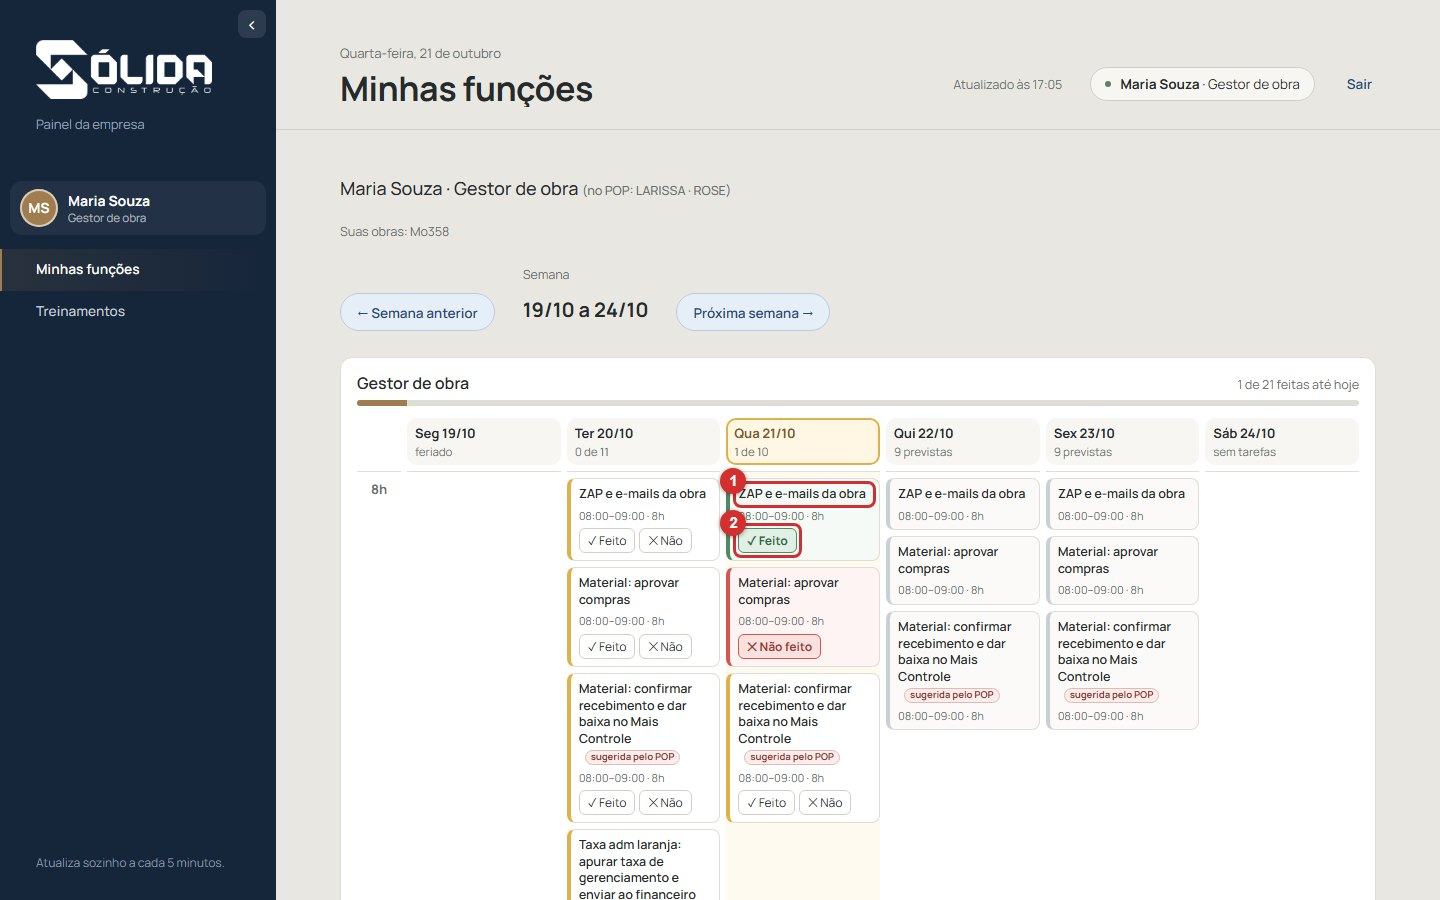
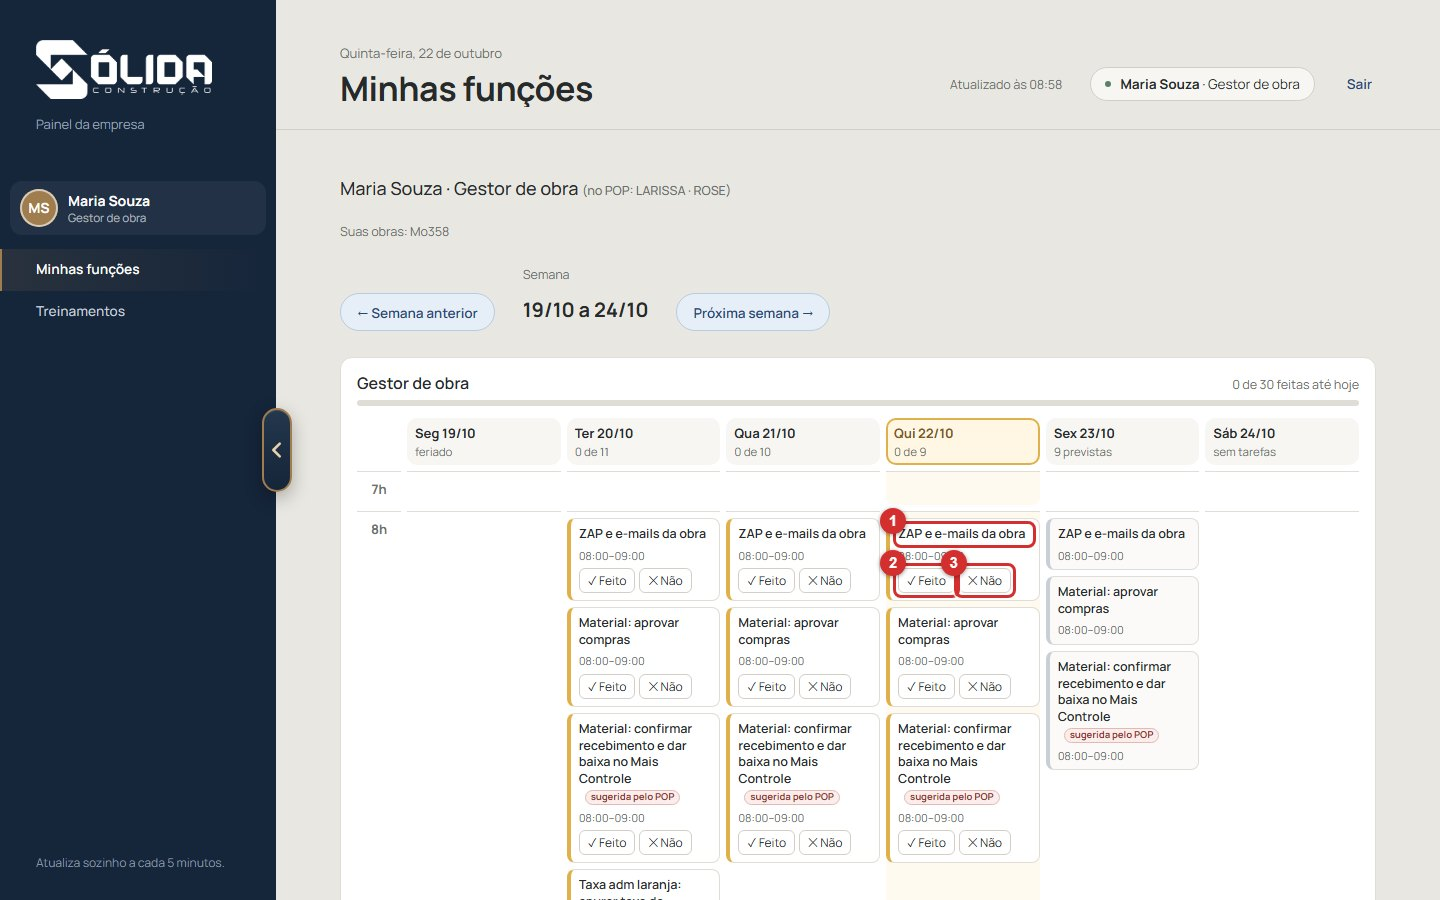
Minhas funcoes: arrastar o cartao dentro do dia (hora cheia ou e meia); horario escolhido vale para todas as semanas e e so da pessoa (tabela horarios_tarefas na nuvem); treinamento com o passo de mover

diff --git a/app/js/telas/meudia.js b/app/js/telas/meudia.js
@@ -7,7 +7,7 @@ import { html, data as fmtData } from '../formato.js';
 import { somarDias, hojeISO, inicioDaSemana } from '../datas.js';
 import { TAREFAS, valeNoDia, descreverDias, naGrade, OBSERVACOES, diaSemana, soMinhasFuncoes } from '../funcoes.js';
 import { sessao, funcaoAtual, idPessoa, obrasDaPessoa } from '../sessao.js';
-import { lerChecks, lerHorarios, moverHorario, primeiroDia } from '../armazenamento.js';
+import { lerChecks, lerHorarios, moverHorario, primeiroDia, lerHorariosFixos, fixarHorario } from '../armazenamento.js';
 import { programacoes } from '../programacao.js';
 import { feriado } from '../feriados.js';
 import { telaSemana } from './produtividade.js';
@@ -98,9 +98,17 @@ function situacao(t, data, estado, hoje, prova, curto) {
 const infoTarefa = (t) => [NOME_AREA[t.area] || t.area, t.processo && t.processo !== '—' ? `POP ${t.processo}` : '', descreverDias(t.dias), t.hora ? `quadro: ${t.hora}` : ''].filter(Boolean).join(' · ');
 
 // Cartão da lista "ficaram sem marcar" (sem horário)
-function caixaTarefa(t, data, estado, hoje, prova, rotuloDia = '') {
+function caixaTarefa(t, data, estado, hoje, prova, rotuloDia = '', opc = {}) {
   const { cls, acoes } = situacao(t, data, estado, hoje, prova, false);
-  const meta = [rotuloDia, t.hora].filter(Boolean).join(' · ');
+  const meta = [rotuloDia, opc.mover ? '' : t.hora].filter(Boolean).join(' · ');
+  // opc.mover: o cartão pode ser arrastado para outro dia ou horário (grade por hora); opc.mudou: já foi movido do horário do quadro
+  if (opc.mover) {
+    return html`<div class="fn-caixa fn-${cls} fn-movivel ${opc.mudou ? 'fn-mudou' : ''}" draggable="true" data-mover="${t.id}|${data}" title="${infoTarefa(t)} — arraste para mudar o dia ou o horário">
+    <div class="fn-nome">${textoTarefa(t)}</div>
+    ${meta || opc.mudou ? html`<div class="fn-meta">${meta}${opc.mudou ? html` <button type="button" class="fn-volta" data-volta="${t.id}|${data}" title="Voltar ao dia e horário do quadro">↺ movida</button>` : ''}</div>` : ''}
+    ${acoes ? html`<div class="fn-acoes">${acoes}</div>` : ''}
+  </div>`;
+  }
   return html`<div class="fn-caixa fn-${cls}" title="${infoTarefa(t)}">
     <div class="fn-nome">${textoTarefa(t)}</div>
     ${meta ? html`<div class="fn-meta">${meta}</div>` : ''}
@@ -168,7 +176,10 @@ function funcoesSemana(ref, CFG) {
 
   if (!tarefas.length) return html`${nav}<p class="vazio">Nenhuma tarefa cadastrada para a sua função.</p>`;
 
-  const horarios = lerHorarios(idPessoa());
+  // horário escolhido pela pessoa: vale para a tarefa em TODOS os dias e semanas, só para ela (não muda sozinho)
+  const fixos = lerHorariosFixos(idPessoa());
+  const horarios = {};
+  for (const d of dias) { horarios[d] = {}; for (const [tid, v] of Object.entries(fixos)) horarios[d][tid] = { ini: v.ini }; }
   const todos = [];
   for (const d of dias) for (const t of doDia(d)) todos.push(efetivo(t, d, horarios, dias));
   const colunas = dias.map((c) => { const l = lados(todos.filter((e) => e.dia === c)); return { c, l, fe: l.filter((e) => feita(e.t, e.d)).length }; });
@@ -186,12 +197,15 @@ function funcoesSemana(ref, CFG) {
     </div>`)}</div>`;
   // Grade por hora (padrão em tela larga): horas na lateral, um dia por coluna. Tarefas do mesmo horário ficam empilhadas na célula
   // (cada uma com o texto inteiro), então nada fica espremido nem cortado e os 6 dias cabem na tela sem rolar para o lado.
-  const horasComTarefa = [...new Set(colunas.flatMap(({ l }) => l.map((e) => Math.floor(e.ini / 60))))].sort((a, b) => a - b);
+  // todas as horas do dia de trabalho (7h às 18h, ou mais se houver tarefa fora disso): assim dá para soltar um cartão em qualquer horário
+  const hs = colunas.flatMap(({ l }) => l.map((e) => Math.floor(e.ini / 60)));
+  const horasComTarefa = Array.from({ length: Math.max(18, ...hs) - Math.min(7, ...hs) + 1 }, (_, i) => Math.min(7, ...hs) + i);
   const vistaHoras = html`<div class="fh-grade">
     <div class="fh-canto"></div>
     ${colunas.map(({ c, l, fe }, i) => html`<div class="fq-cab fh-dia ${c === hoje ? 'hoje' : ''}"><b>${DIA_CURTO[i]} ${c.slice(8, 10)}/${c.slice(5, 7)}</b><small>${feriado(c) ? 'feriado' : l.length ? (c > hoje ? `${l.length} previstas` : `${fe} de ${l.length}`) : 'sem tarefas'}</small></div>`)}
-    ${horasComTarefa.map((h) => html`<div class="fh-hora"><b>${h}h</b></div>${colunas.map(({ c, l }) => html`<div class="fh-cel ${c === hoje ? 'hoje' : ''}">${l.filter((e) => Math.floor(e.ini / 60) === h).sort((a, b) => a.ini - b.ini).map((e) => caixaTarefa(e.t, e.d, estadoDe(e.t, e.d), hoje, null, dispo(e)))}</div>`)}`)}
-  </div>`;
+    ${horasComTarefa.map((h) => html`<div class="fh-hora"><b>${h}h</b></div>${colunas.map(({ c, l }) => html`<div class="fh-cel ${c === hoje ? 'hoje' : ''}" data-cel-dia="${c}" data-cel-hora="${h}">${l.filter((e) => Math.floor(e.ini / 60) === h).sort((a, b) => a.ini - b.ini).map((e) => caixaTarefa(e.t, e.d, estadoDe(e.t, e.d), hoje, null, dispo(e), { mover: true, mudou: e.mudou }))}</div>`)}`)}
+  </div>
+  <p class="legenda-semana">Quer mudar o horário de uma tarefa? Segure o cartão e arraste para outra hora do mesmo dia (solte na metade de cima da hora para hora cheia, ou na de baixo para "e meia"). O novo horário vale para todas as semanas e é só seu. "↺ movida" volta ao horário do quadro.</p>`;
   const botoesVista = html`<div class="fl-vista" role="group" aria-label="Como ver as tarefas"><span class="pequeno">Ver:</span>
     <button type="button" class="botao ${vista === 'lista' ? 'on' : ''}" data-vista-fn="lista">Lista por dia</button>
     <button type="button" class="botao ${vista === 'quadro' ? 'on' : ''}" data-vista-fn="quadro">Por horário</button></div>`;
@@ -230,6 +244,34 @@ function funcoesSemana(ref, CFG) {
 
 // Ligações do quadro (uma vez só, no início): arrastar, puxar a borda, abrir e ajustar a janelinha.
 export function instalarQuadro(aoMudar) {
+  // Mover tarefas dentro do próprio dia (grade por hora): segure o cartão, arraste e solte na hora que quiser (metade de cima da célula = hora cheia,
+  // metade de baixo = e meia). O horário vale para a tarefa em todas as semanas e fica só para esta pessoa. "↺ movida" volta ao horário do quadro.
+  let movendo = null;
+  const celula = (e) => (e.target.closest ? e.target.closest('.fh-cel') : null);
+  document.addEventListener('dragstart', (e) => {
+    const c = e.target.closest && e.target.closest('[data-mover]'); if (!c) return;
+    const [id, d] = c.dataset.mover.split('|'); movendo = { id, d, card: c };
+    e.dataTransfer.setData('text/plain', c.dataset.mover); e.dataTransfer.effectAllowed = 'move'; c.classList.add('arrastando');
+  });
+  document.addEventListener('dragend', () => { if (movendo) movendo.card.classList.remove('arrastando'); movendo = null; document.querySelectorAll('.fh-cel.alvo').forEach((x) => x.classList.remove('alvo')); });
+  document.addEventListener('dragover', (e) => {
+    const cel = celula(e); if (!cel || !movendo || cel.dataset.celDia !== movendo.d) return;   // só dentro do próprio dia
+    e.preventDefault(); e.dataTransfer.dropEffect = 'move';
+    document.querySelectorAll('.fh-cel.alvo').forEach((x) => { if (x !== cel) x.classList.remove('alvo'); }); cel.classList.add('alvo');
+  });
+  document.addEventListener('drop', (e) => {
+    const cel = celula(e); if (!cel || !movendo || cel.dataset.celDia !== movendo.d) return;
+    e.preventDefault();
+    const r = cel.getBoundingClientRect(); const meia = (e.clientY - r.top) / Math.max(1, r.height) >= 0.5;
+    const ini = Number(cel.dataset.celHora) * 60 + (meia ? 30 : 0);
+    fixarHorario(idPessoa(), movendo.id, ini);
+    movendo = null; aoMudar();
+  });
+  document.addEventListener('click', (e) => {
+    const v = e.target.closest && e.target.closest('[data-volta]'); if (!v) return;
+    fixarHorario(idPessoa(), v.dataset.volta.split('|')[0], null); aoMudar();
+  });
+
   let a = null;
   const reset = () => { if (a) { a.card.classList.remove('arrastando'); a.card.style.transform = ''; a = null; } };
   document.addEventListener('pointerdown', (e) => {

diff --git a/app/js/main.js b/app/js/main.js
@@ -19,7 +19,7 @@ import { sessao, funcaoAtual, veValores, entrar, sair, logado, idPessoa, podeVer
 import { FUNCOES, funcaoPorId, veBlocoGeral, INDICADORES_SO_GESTAO, paginaVisivel, aplicarAbas, abasPadrao, soMinhasFuncoes } from './funcoes.js';
 import * as marketing from './telas/marketing.js';
 import * as login from './telas/login.js';
-import { marcarCheck, gravarLancamento, apagarLancamento, gravarManual, vincularDia, sincronizarTarefas, lerPessoasTarefas } from './armazenamento.js';
+import { marcarCheck, gravarLancamento, apagarLancamento, gravarManual, vincularDia, sincronizarTarefas, lerPessoasTarefas, sincronizarHorarios } from './armazenamento.js';
 import * as perfil from './telas/perfil.js';
 import * as nuvem from './nuvem.js';
 import * as acessos from './telas/acessos.js';
@@ -650,7 +650,7 @@ async function atualizar() {
   // marcações de tarefas de todos (pontuação do Perfil); quem está logado manda o que só tinha neste navegador
   const atual = logado() ? { pessoa: idPessoa(), nome: sessao().nome, funcao: funcaoAtual().id, teste: simulando(), obras: obrasDaPessoa() } : null;
   if (nuvem.NA_NUVEM && logado()) { try { aplicarAbas(await nuvem.carregarAbas()); } catch { /* sem a tabela: fica o padrão de cada função */ } }
-  const [painelR, baseR, prodR, driveR, , , , , ferrR, terR, , efR] = await Promise.allSettled([carregarPainel(), carregarDados(), carregarProdutividade(), carregarDrive(), sincronizarTarefas(atual), perfil.carregarFotos(), feed.carregar(), evidencias.carregar(), carregarFerramentasChk(), carregarTerceirizados(), atas.carregar(), carregarEfetivo()]);
+  const [painelR, baseR, prodR, driveR, , , , , ferrR, terR, , efR] = await Promise.allSettled([carregarPainel(), carregarDados(), carregarProdutividade(), carregarDrive(), sincronizarTarefas(atual), perfil.carregarFotos(), feed.carregar(), evidencias.carregar(), carregarFerramentasChk(), carregarTerceirizados(), atas.carregar(), carregarEfetivo(), sincronizarHorarios(logado() ? idPessoa() : null)]);
   if (efR.status === 'fulfilled') estado.efetivo = efR.value;
   if (terR.status === 'fulfilled') estado.terceiros = terR.value;
   if (ferrR.status === 'fulfilled') estado.ferrChk = ferrR.value;

diff --git a/app/js/armazenamento.js b/app/js/armazenamento.js
@@ -48,9 +48,30 @@ export function moverHorario(pessoa, data, tarefa, patch) {
   }
   gravarJSON('solida.horarios', tudo);
 }
+// Horário que a PESSOA escolheu para cada tarefa (21/10): vale para todos os dias e semanas, só para ela, e não muda sozinho.
+// fixos[pessoa][tarefa] = { ini } (minutos desde 00:00). Fica neste navegador e, na nuvem, na tabela horarios_tarefas (segue a pessoa em outro aparelho).
+const CHAVE_FIXOS = 'solida.horariosFixos';
+export const lerHorariosFixos = (pessoa) => lerJSON(CHAVE_FIXOS, {})[pessoa] || {};
+export function fixarHorario(pessoa, tarefa, ini) {
+  const tudo = lerJSON(CHAVE_FIXOS, {});
+  tudo[pessoa] = tudo[pessoa] || {};
+  if (ini == null) delete tudo[pessoa][tarefa]; else tudo[pessoa][tarefa] = { ini };
+  gravarJSON(CHAVE_FIXOS, tudo);
+  if (NA_NUVEM) (ini == null ? apagarHorarioTarefa(tarefa) : gravarHorarioTarefa(tarefa, ini)).catch(() => { /* fica só neste navegador; sobe na próxima sincronização */ });
+}
+// Traz os horários da nuvem; o que só existe neste navegador (movido antes de subir) é enviado.
+export async function sincronizarHorarios(pessoa) {
+  if (!NA_NUVEM || !pessoa) return false;
+  let linhas; try { linhas = await listarHorariosTarefas(); } catch { return false; }
+  const tudo = lerJSON(CHAVE_FIXOS, {}); const locais = tudo[pessoa] || {}; const nuvem = {};
+  for (const l of linhas) nuvem[l.tarefa] = { ini: l.ini };
+  for (const [t, v] of Object.entries(locais)) if (!nuvem[t]) { nuvem[t] = v; gravarHorarioTarefa(t, v.ini).catch(() => {}); }
+  tudo[pessoa] = nuvem; gravarJSON(CHAVE_FIXOS, tudo);
+  return true;
+}
 // ---------------------------------------------------------------- marcações compartilhadas (servidor)
 // O servidor guarda todas as marcações (dados/tarefas-feitas.jsonl); este navegador fica com uma cópia.
-import { NA_NUVEM, linhasTarefas, marcarTarefa } from './nuvem.js';
+import { NA_NUVEM, linhasTarefas, marcarTarefa, listarHorariosTarefas, gravarHorarioTarefa, apagarHorarioTarefa } from './nuvem.js';
 
 function enviarCheck(c) {
   if (NA_NUVEM) { if (!c.registro) marcarTarefa(c).catch(() => {}); return; }

diff --git a/app/js/treinamentos-slides.js b/app/js/treinamentos-slides.js
@@ -43,6 +43,9 @@ export const SUBTOPICOS = [
           { imagem: img('func-04-cores'), titulo: 'As cores dos cartões', texto: 'Depois de marcar, o cartão muda de cor para você bater o olho e ver o que falta.',
             legenda: ['Verde: você marcou como feita.', 'Vermelho: você marcou como não feita.', 'Amarelo: ainda falta você marcar (tarefa sem marcação conta como não entregue).'],
             dica: 'Sempre marque no mesmo dia: é mais fácil de lembrar e o seu progresso fica certo.' },
+          { imagem: img('func-11-mover'), titulo: 'Mude o horário de uma tarefa', texto: 'Quer fazer uma tarefa em outra hora do dia? Segure o cartão, arraste e solte na hora que quiser, no mesmo dia. O novo horário fica valendo para essa tarefa em todas as semanas, só para você: ninguém mais é afetado e ele não volta sozinho.',
+            legenda: ['O cartão que você moveu fica marcado e mostra o novo horário.', '↺ movida: clique para voltar ao horário original do quadro.'],
+            dica: 'Solte na metade de cima da hora para hora cheia (ex.: 11h) e na metade de baixo para "e meia" (11h30). Só dá para mover dentro do mesmo dia.' },
           { imagem: img('func-07-semanas'), titulo: 'Semanas anteriores e próximas', texto: 'Esqueceu de marcar alguma coisa? Volte à semana anterior e marque lá. Você também vê a semana que vem.',
             legenda: ['Semana anterior: volta e permite marcar o que ficou pendente.', 'A semana que você está vendo.', 'Próxima semana: só para consultar.'],
             dica: 'Tarefas sem marcação das últimas semanas aparecem num aviso abaixo: "Ficaram sem marcar".' },

diff --git a/app/js/nuvem.js b/app/js/nuvem.js
@@ -163,6 +163,20 @@ export async function gravarObraPos(linha) {
   const { error } = await sb.from('obras_pos').upsert({ ...linha, atualizado_em: new Date().toISOString(), atualizado_por: perfil.id });
   if (error) throw new Error(error.message);
 }
+// horário que cada pessoa escolheu para cada tarefa de "Minhas funções" (só ela vê e grava; vale para todas as semanas)
+export async function listarHorariosTarefas() {
+  const { data, error } = await sb.from('horarios_tarefas').select('tarefa, ini');
+  if (error) throw new Error(error.message);
+  return data || [];
+}
+export async function gravarHorarioTarefa(tarefa, ini) {
+  const { error } = await sb.from('horarios_tarefas').upsert({ pessoa: perfil.id, tarefa, ini, atualizado_em: new Date().toISOString() });
+  if (error) throw new Error(error.message);
+}
+export async function apagarHorarioTarefa(tarefa) {
+  const { error } = await sb.from('horarios_tarefas').delete().eq('pessoa', perfil.id).eq('tarefa', tarefa);
+  if (error) throw new Error(error.message);
+}
 // serviços do pós-obra em quadro por fase
 export async function listarServicosPos() {
   const { data, error } = await sb.from('servicos_pos').select('*');

diff --git a/app/css/estilo.css b/app/css/estilo.css
@@ -1983,3 +1983,13 @@ nav { position: relative; transition: width .18s ease; }
 body.nav-recolhido .nav-handle { left: 26px; }
 body.sem-login .nav-handle { display: none; }
 @media (max-width: 760px) { .nav-handle { display: none; } }
+
+/* ---- Minhas funções: arrastar o cartão dentro do dia ---- */
+.fh-cel { min-height: 34px; }
+.fn-movivel { cursor: grab; }
+.fn-movivel.arrastando { opacity: .4; }
+.fn-movivel .fn-b { cursor: pointer; }
+.fh-cel.alvo { background: rgba(160, 125, 79, .20); outline: 2px dashed var(--bronze, #A07D4F); outline-offset: -2px; border-radius: 8px; }
+.fn-mudou { box-shadow: inset 0 0 0 1px #E0B04A; }
+.fn-volta { font: inherit; font-size: 11px; font-weight: 700; padding: 0 6px; border: 1px solid #E0B04A; border-radius: 10px; background: #FFF6E3; color: #7A5A1E; cursor: pointer; }
+.fn-volta:hover { background: #FBE9BE; }
